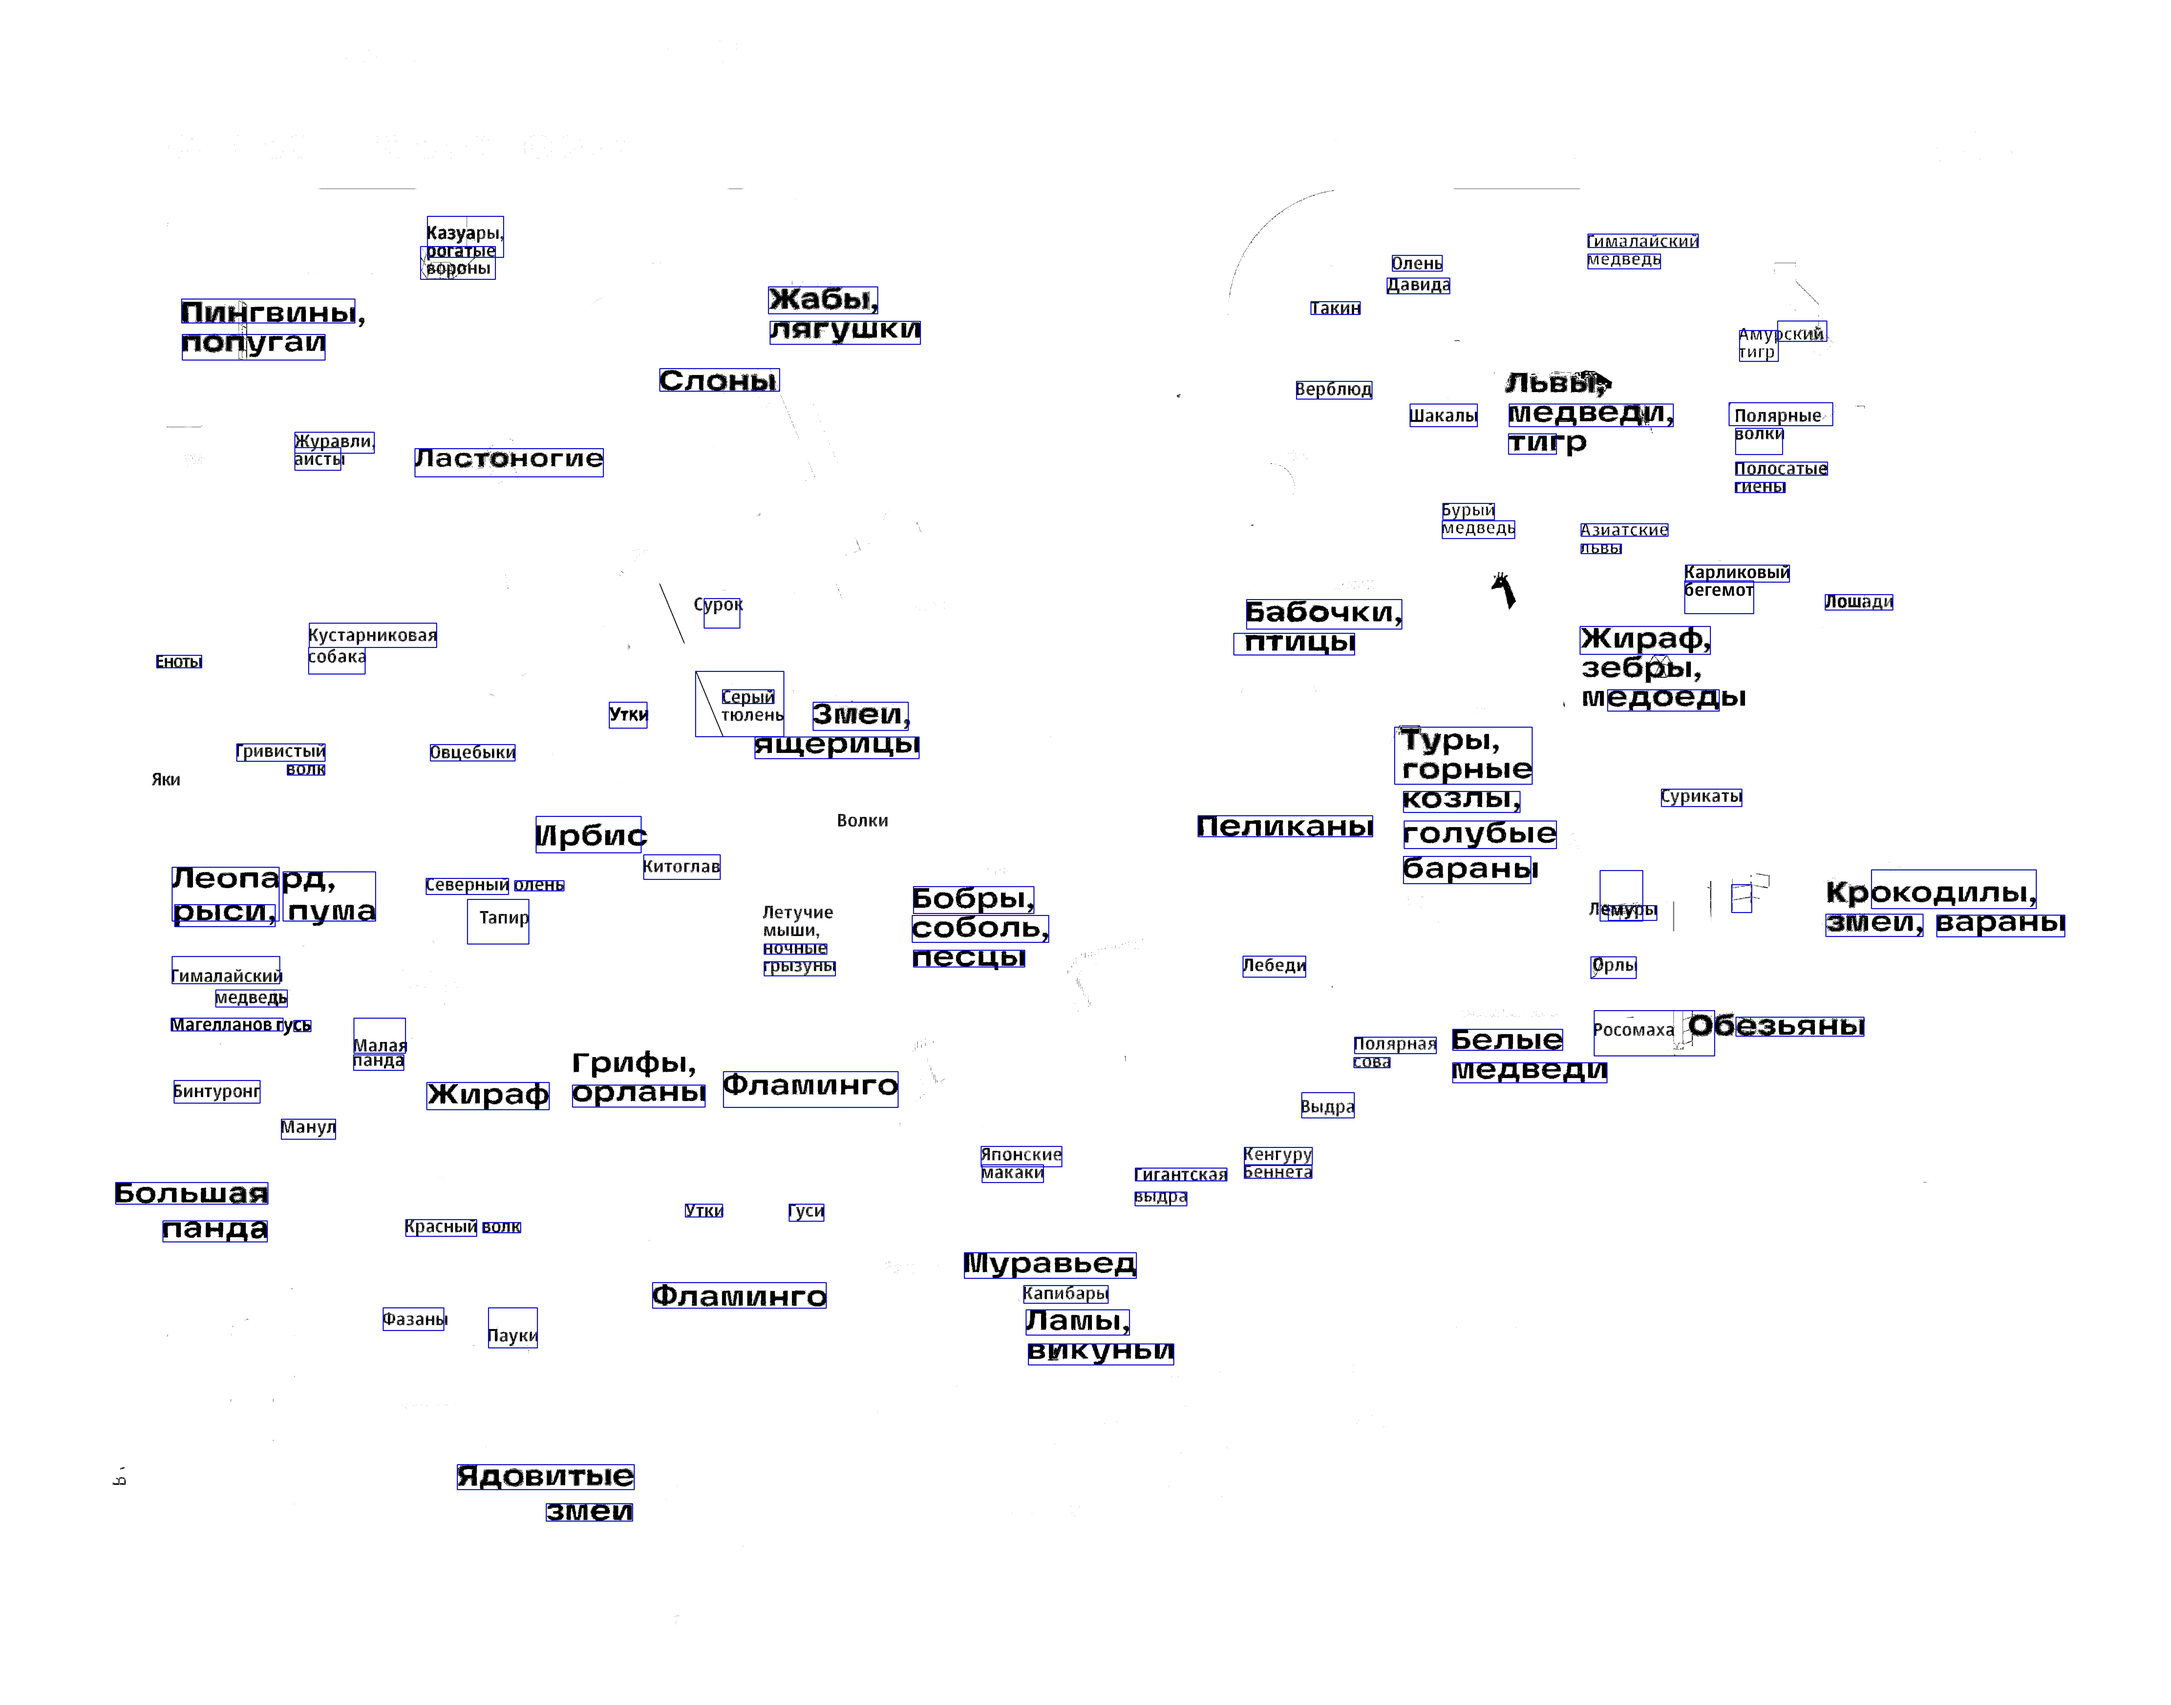
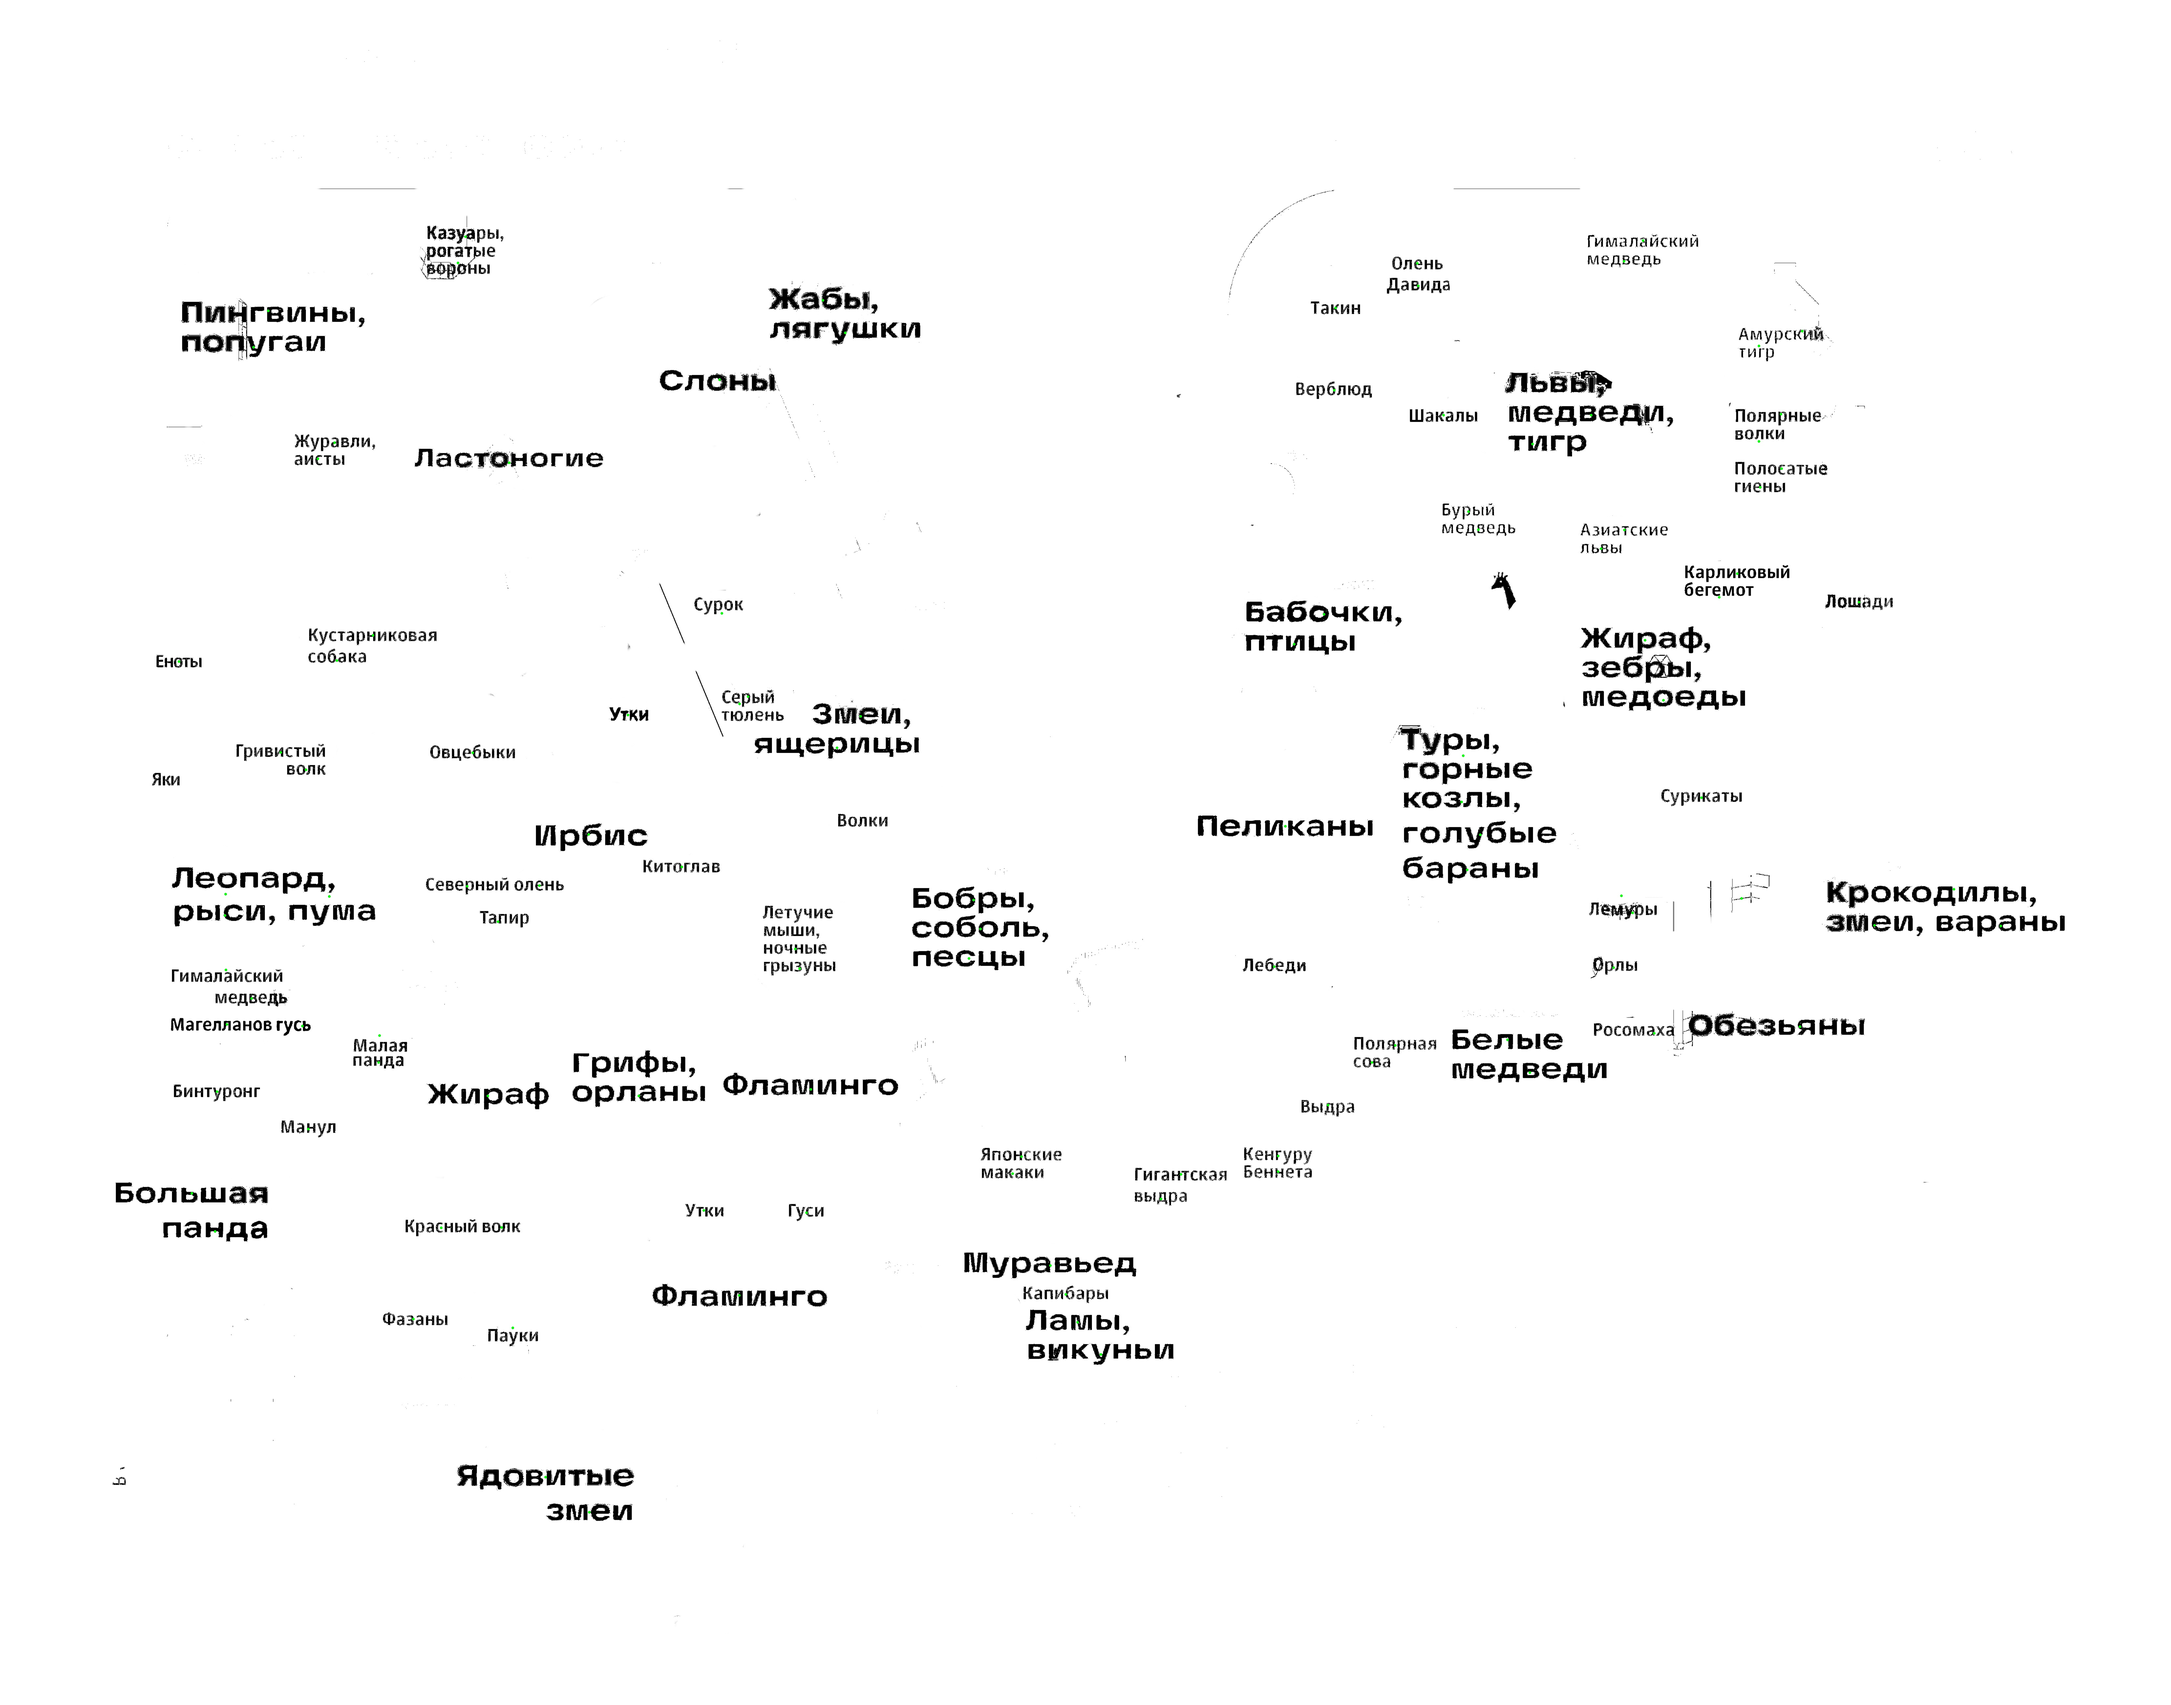
get text location

diff --git a/lab1/lab1.py b/lab1/lab1.py
@@ -18,6 +18,7 @@ import cv2 as cv
 import matplotlib.pyplot as plt
 from PIL import Image
 import numpy as np
+from sympy import Line, Point
 
 def convert_img(img):
     def check_first_color(now_color):
@@ -62,7 +63,35 @@ def convert_img(img):
                 img[i][j] = np.array([255, 255, 255])
     return img
 
+def get_text_location(img, data):
+    image_copy = img
+    text_list = list()
+    for i in range(len(data['text'])):
+        if len(data['text'][i]) < 4:
+            continue
 
+        # извлекаем ширину, высоту, верхнюю и левую позицию для обнаруженного слова
+        w = data["width"][i]
+        h = data["height"][i]
+        l = data["left"][i]
+        t = data["top"][i]
+        # определяем все точки окружающей рамки
+        p1 = Point(l, t)
+        p2 = Point(l + w, t)
+        p3 = Point(l + w, t + h)
+        p4 = Point(l, t + h)
+        
+        S = p1.distance(p2) * p1.distance(p4)
+
+        center = Line(p1, p3).intersection(Line(p2, p4))
+        center = (int(center[0][0]), int(center[0][1]))
+        cv.circle(image_copy, center, 4, (0, 255, 0), -1)
+        
+        text_list.append([data['text'][i], i, center, S])
+    return image_copy, text_list
+
+def get_valliers(text_list):
+    pass
 
 if __name__ == '__main__':
     #Скачали карту с сайта зоопарка (расчехлять request для этого не считаю нужным), но она большого размера и шакального качества
@@ -75,27 +104,8 @@ if __name__ == '__main__':
     image = cv.imread("kkkk.jpg")
 
     data = pytesseract.image_to_data(image, lang='rus', output_type=pytesseract.Output.DICT)
-    image_copy = image
-    text_list = list()
-    for i in range(len(data['text'])):
-        if len(data['text'][i]) < 4:
-            continue
+    image_copy, text_list = get_text_location(img, data)
+    valliers = get_valliers(text_list)
 
-        text_list.append([data['text'][i], i])
-    # извлекаем ширину, высоту, верхнюю и левую позицию для обнаруженного слова
-        w = data["width"][i]
-        h = data["height"][i]
-        l = data["left"][i]
-        t = data["top"][i]
-        # определяем все точки окружающей рамки
-        p1 = (l, t)
-        p2 = (l + w, t)
-        p3 = (l + w, t + h)
-        p4 = (l, t + h)
-        # рисуем 4 линии (прямоугольник)
-        image_copy = cv.line(image_copy, p1, p2, color=(255, 0, 0), thickness=2)
-        image_copy = cv.line(image_copy, p2, p3, color=(255, 0, 0), thickness=2)
-        image_copy = cv.line(image_copy, p3, p4, color=(255, 0, 0), thickness=2)
-        image_copy = cv.line(image_copy, p4, p1, color=(255, 0, 0), thickness=2)
     cv.imwrite('lines.jpg', image_copy)
     print(text_list, file=open('aaaa.txt', 'w'))
